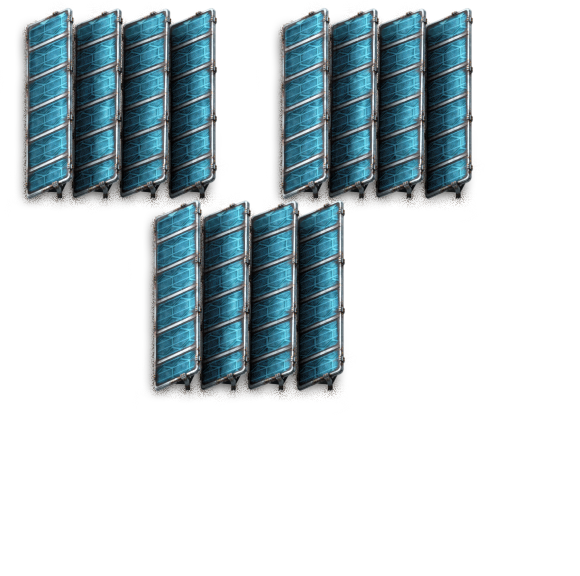
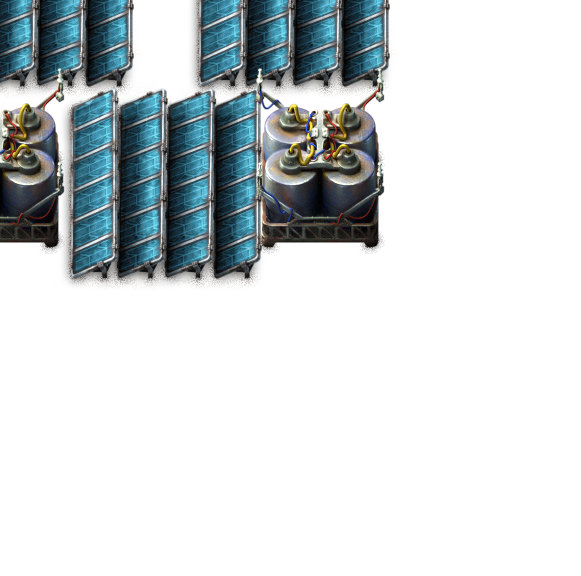
add entity data parsing

diff --git a/main.go b/main.go
@@ -4,6 +4,7 @@ import (
 	"os"
 	"image"
 	"github.com/marekmaskarinec/factorio-bpdraw/src"
+	"fmt"
 )
 
 
@@ -15,7 +16,10 @@ func main() {
[1 lines of base64/hex data omitted]
 
 	// 3 solar panels. 2 up one down in the middle
[2 lines of base64/hex data omitted]
+
+	// same as above, but with two accumulators added
[1 lines of base64/hex data omitted]
 
 	bpdraw.ImgCache = map[string]image.Image{}
 
@@ -27,6 +31,8 @@ func main() {
 	if err != nil {
 		panic(err)
 	}
+
+	fmt.Println(bpdraw.ParseEntityInfo())
 
 	offx, offy := bp.FindZero()
 	dst := bpdraw.Init(bp.Entities, offx, offy)

diff --git a/src/parser.go b/src/parser.go
@@ -7,8 +7,8 @@ import (
 	"encoding/base64"
 	"encoding/json"
 	"errors"
-	"fmt"
 	"io"
+	"os"
 )
 
 type BpParse struct {
@@ -34,9 +34,6 @@ func ParseBPString(s string) (Blueprint, error) {
 	io.Copy(bufio.NewWriter(&dat), r)
 	r.Close()
 
-	fmt.Println("BP JSON:")
-	fmt.Println(string(dat.Bytes()))
-
 	// parse json
 	err = json.Unmarshal(dat.Bytes(), &out)
 	if err != nil {
@@ -44,6 +41,27 @@ func ParseBPString(s string) (Blueprint, error) {
 	}
 
 	return out.BP, nil
+}
+
+
+func ParseEntityInfo() map[string]EntityInfo {
+	f, err := os.Open("entities.json")
+	if err != nil {
+		panic(err)
+	}
+	
+	dat, err := io.ReadAll(f)
+	if err != nil {
+		panic(err)
+	}
+
+	var out map[string]EntityInfo
+	err = json.Unmarshal(dat, &out)
+	if err != nil {
+		panic(err)
+	}
+
+	return out
 }
 
 // finds the offsets for each axis so that those axis are always positive and start at 0 0

diff --git a/src/draw.go b/src/draw.go
@@ -57,9 +57,14 @@ func Draw(ents []Entity, dst *image.RGBA) {
 			continue
 		}
 
+		dims := img.Bounds()
+		fmt.Println(dims.Max)
+		dims.Max.X /= 2
+		dims.Max.Y /= 2
+		fmt.Println(dims.Max)
 		pos := image.Point{int(ents[i].Position.X * 64), int(ents[i].Position.Y * 64)}
-		r := image.Rectangle{pos, pos.Add(img.Bounds().Max)}
-		draw.Draw(dst, r, img, image.Point{0, 0}, draw.Over)
+		r := image.Rectangle{pos.Sub(dims.Max), pos.Add(img.Bounds().Max).Sub(dims.Max)}
+		draw.Draw(dst, r/*.Add(image.Point{100, 100})*/, img, image.Point{0, 0}, draw.Over)
 	}
 
 	f, err := os.Create("out.png")

diff --git a/src/entity.go b/src/entity.go
@@ -133,3 +133,17 @@ type Blueprint struct {
 	Schedules  []ScheduleObject `json:"schedules"`
 	Version    int64            `json:"version"`
 }
+
+type Layer struct {
+	Width int `json:"height"`
+	Height int `json:"width"`
+	Shift []float64 `json:"shift"`
+}
+
+type Picture struct {
+	Layers []Layer `json:"layers"`
+}
+
+type EntityInfo struct {
+	Picture Picture `json:"picture"`
+}
